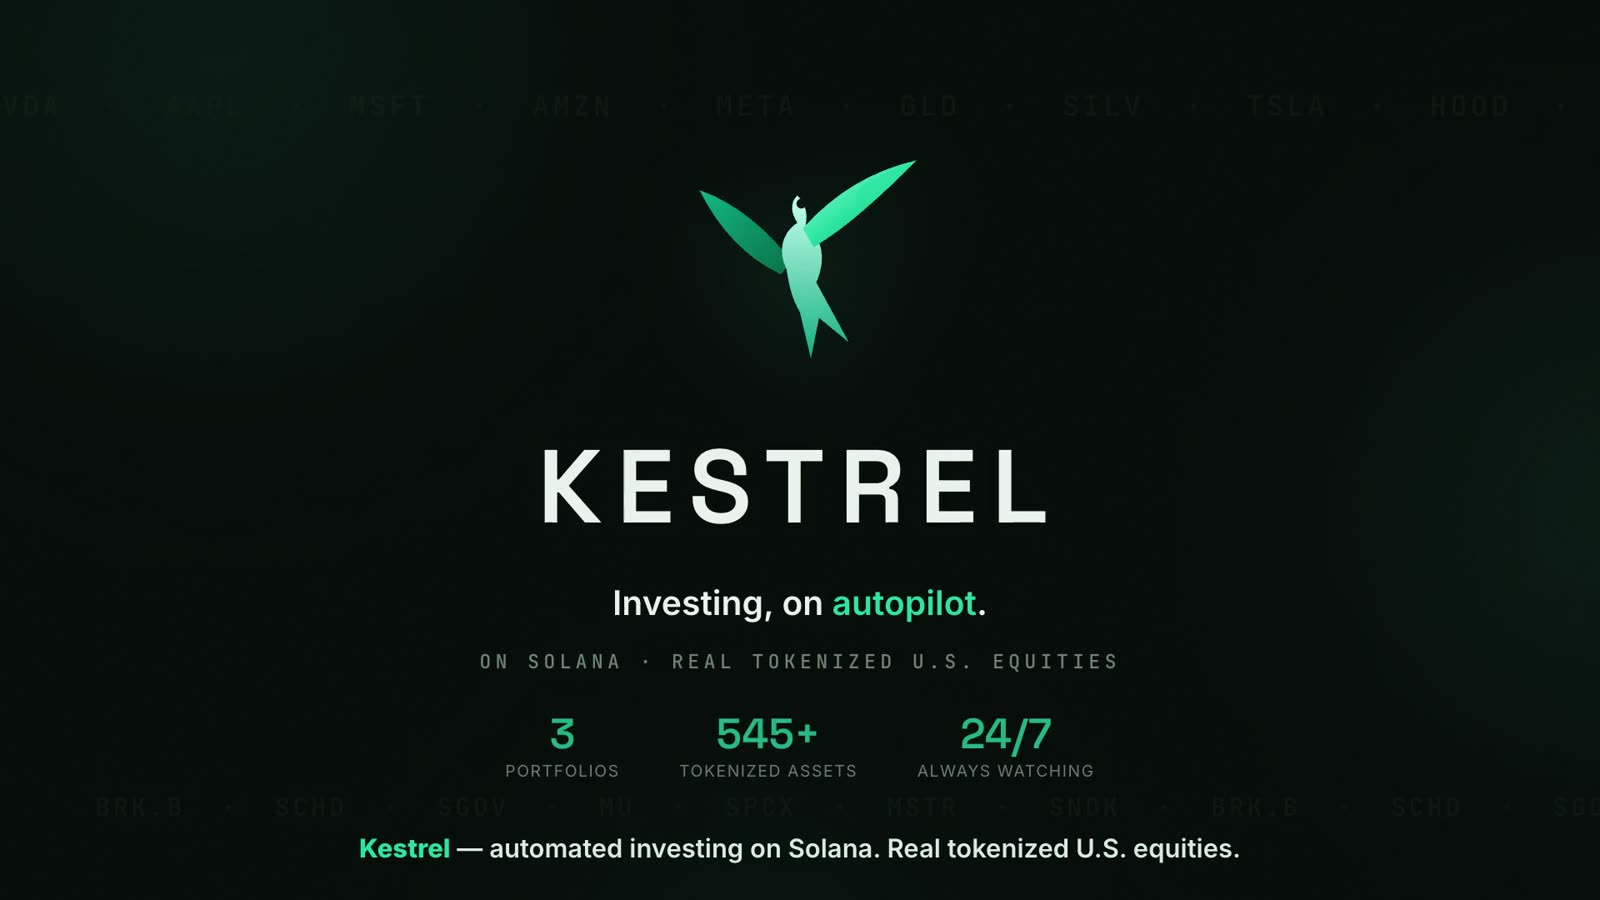
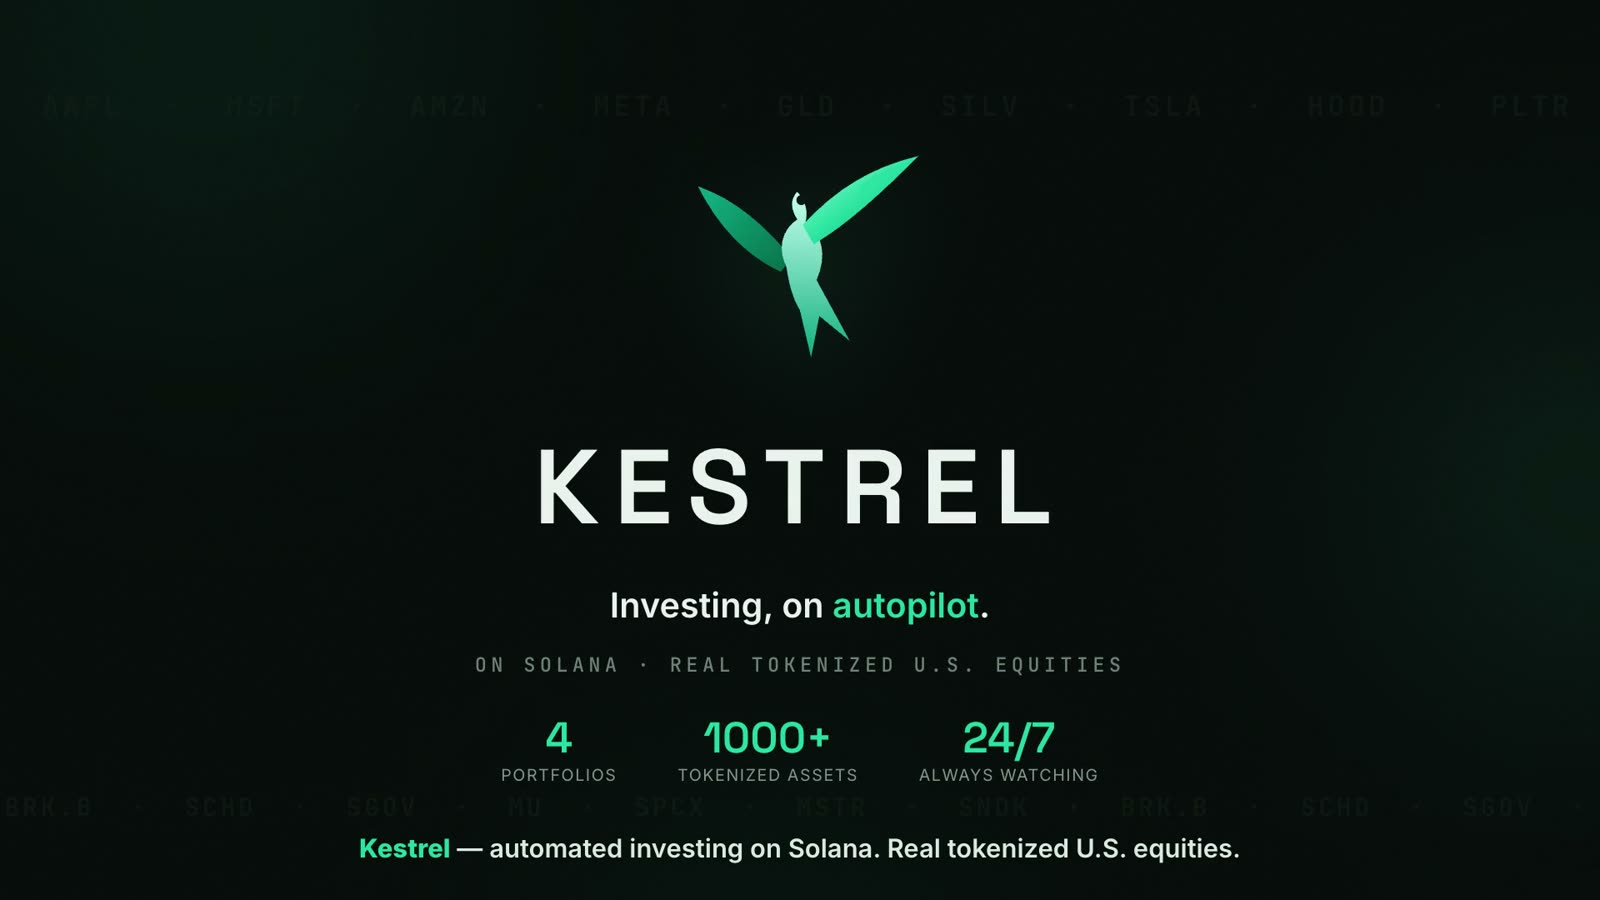
Film back on top, 'The film' label dropped; poster recut
Restores the video to the top of the page on both breakpoints (previous
change over-read the feedback — only the 'THE FILM' eyebrow label was
unwanted, not the placement). Poster recut to a settled brand frame
(counters finished: 4 portfolios / 1,000+ assets).

diff --git a/index.html b/index.html
@@ -340,7 +340,6 @@
   .mcta{display:none}
   @media (max-width: 900px){
     .wrap{display:flex;flex-direction:column}
-    .wrap > .hero{order:-3}
     body{padding-bottom:72px}
     .mcta{position:fixed;left:0;right:0;bottom:0;z-index:60;display:flex;padding:10px 14px calc(10px + env(safe-area-inset-bottom,0px));background:color-mix(in srgb, var(--bg) 84%, transparent);backdrop-filter:blur(14px);-webkit-backdrop-filter:blur(14px);border-top:1px solid var(--line)}
     .mcta .btn{flex:1;justify-content:center;font-size:15px;padding:13px 0}
@@ -387,6 +386,20 @@
 </nav>
 
 <div class="wrap">
+  <section class="sec film" id="film">
+    <div class="sec-head rise">
+      <h2>See the full Kestrel story.</h2>
+      <p class="sub">How you invest, the five asset classes, the portfolios and their real holdings, our methodology, the $KESTREL token, and why we're different — fully narrated, 2:36.</p>
+    </div>
+    <div class="film-wrap rise d2">
+      <video id="kfilm" controls preload="metadata" playsinline poster="kestrel-demo-poster.jpg">
+        <source src="kestrel-demo.mp4" type="video/mp4">
+        <track kind="captions" src="kestrel-demo.vtt" srclang="en" label="English" default>
+      </video>
+    </div>
+    <p class="film-note">Illustrative simulation — not a projection of returns. Kestrel is in development.</p>
+  </section>
+
   <!-- ENGINE -->
   <section class="sec" id="how">
     <div class="sec-head rise">
@@ -497,21 +510,6 @@
       <span class="img-tag"><b>Kestrel</b> · your money, quietly at work</span>
     </div>
   </header>
-
-  <section class="sec film" id="film">
-    <div class="sec-head rise">
-      <p class="eyebrow">The film</p>
-      <h2>See the full Kestrel story.</h2>
-      <p class="sub">How you invest, the five asset classes, the portfolios and their real holdings, our methodology, the $KESTREL token, and why we're different — fully narrated, 2:36.</p>
-    </div>
-    <div class="film-wrap rise d2">
-      <video id="kfilm" controls preload="metadata" playsinline poster="kestrel-demo-poster.jpg">
-        <source src="kestrel-demo.mp4" type="video/mp4">
-        <track kind="captions" src="kestrel-demo.vtt" srclang="en" label="English" default>
-      </video>
-    </div>
-    <p class="film-note">Illustrative simulation — not a projection of returns. Kestrel is in development.</p>
-  </section>
 
 
   <!-- FEATURES -->
